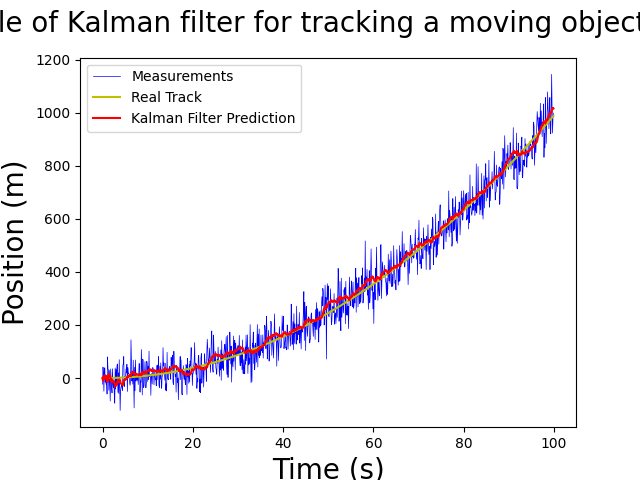
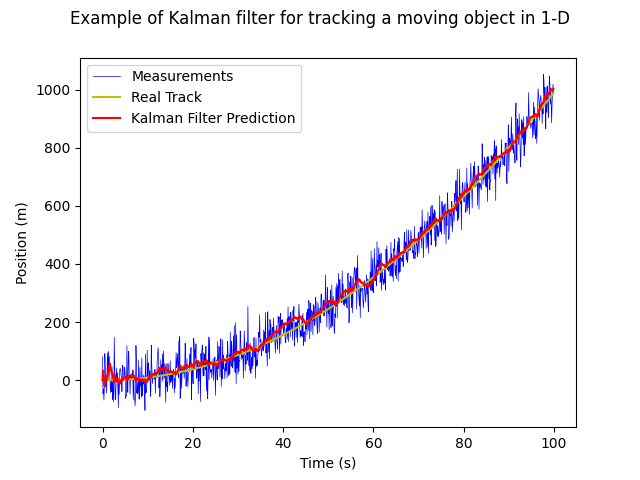
Change fonts for better visualization

diff --git a/Kalman_filtering.py b/Kalman_filtering.py
@@ -54,7 +54,7 @@ def main():
         predictions.append(kf.predict()[0])
         kf.update(z.item(0))
     fig = plt.figure()
-    fig.suptitle('Example of Kalman filter for tracking a moving object in 1-D', fontsize=20)
+    fig.suptitle('Example of Kalman filter for tracking a moving object in 1-D', fontsize=8)
     plt.plot(t, measurements, label='Measurements', color='b',linewidth=0.5)
     plt.plot(t, np.array(real_track), label='Real Track', color='y', linewidth=1.5)
     plt.plot(t, np.squeeze(predictions), label='Kalman Filter Prediction', color='r', linewidth=1.5)
